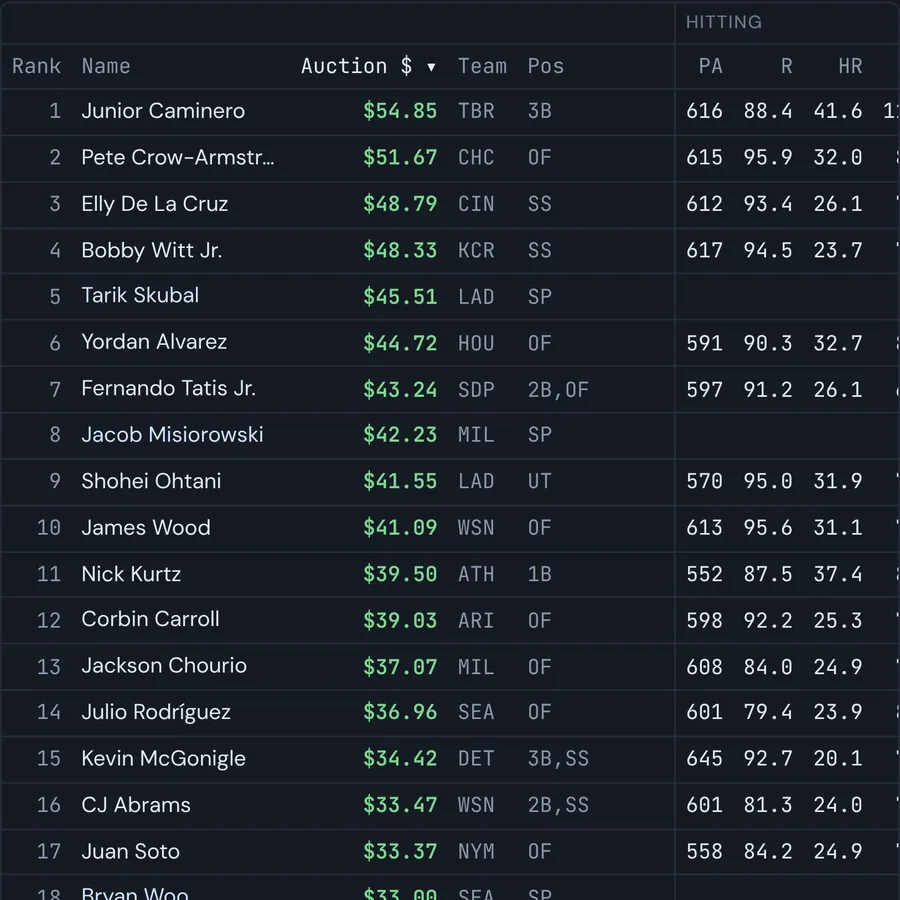
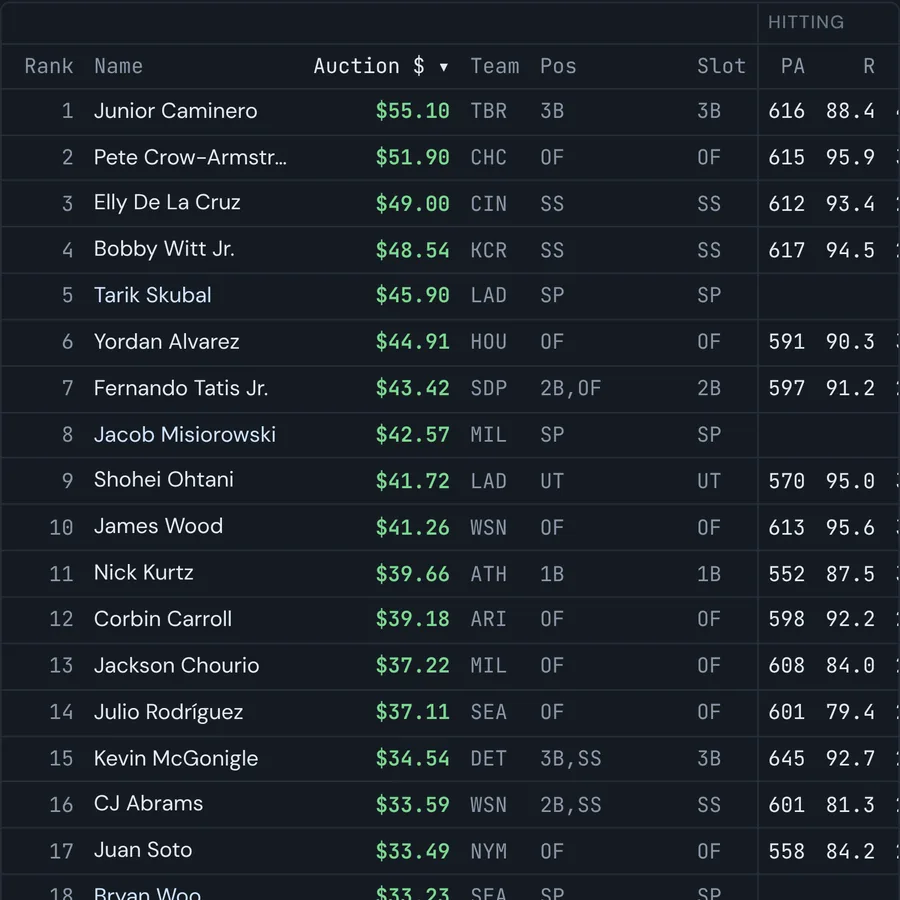
Homepage: refresh the auction calculator tile
Re-captured from the current page (Yahoo format, span 3, legal-roster
dollars, with the Slot column); make_tiles.py bumped its ?v= to 2.

Claude-Session: https://claude.ai/code/session_01AWedwNEJvEtBDjmJaVtJCN

diff --git a/index.html b/index.html
@@ -162,7 +162,7 @@
 								</article>
 									<article class="style4">
 									<span class="image">
-										<img src="images/tile-auction-calculator.webp?v=1" srcset="images/tile-auction-calculator-720.webp?v=1 720w, images/tile-auction-calculator.webp?v=1 900w" sizes="(max-width: 480px) 100vw, (max-width: 980px) 50vw, 380px" width="900" height="900" alt="Auction values for a 12-team 5x5 roto league, Junior Caminero first at $54.85" />
+										<img src="images/tile-auction-calculator.webp?v=2" srcset="images/tile-auction-calculator-720.webp?v=2 720w, images/tile-auction-calculator.webp?v=2 900w" sizes="(max-width: 480px) 100vw, (max-width: 980px) 50vw, 380px" width="900" height="900" alt="Auction values for a 12-team Yahoo-format 5x5 league, Junior Caminero first at $55.10" />
 									</span>
 									<a href="/auction-calculator/">
 										<h2>MLB Auction Calculator</h2>
